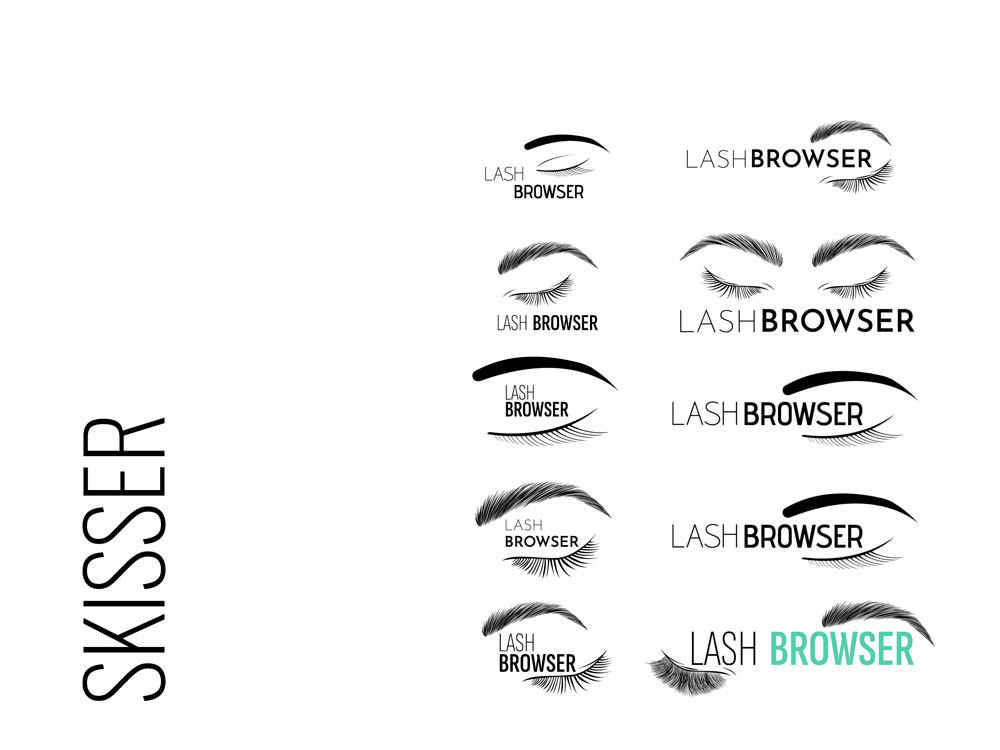
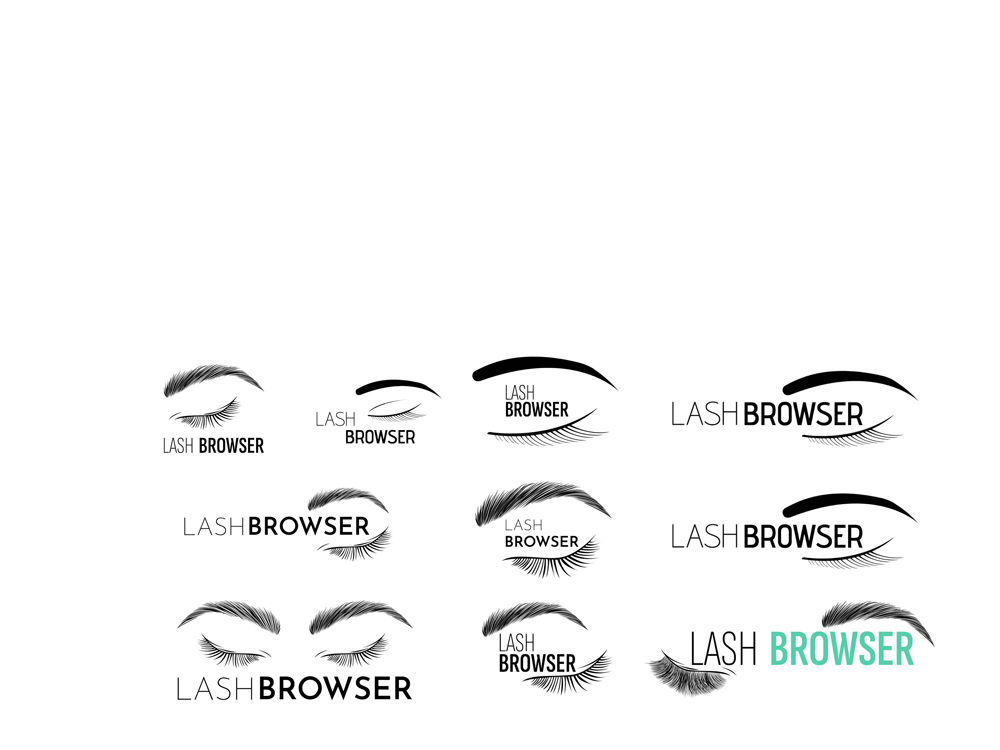
fixed a few small things. and worked on home, photography responsive.

diff --git a/src/Routes/GraphicalDesignProject/index.jsx b/src/Routes/GraphicalDesignProject/index.jsx
@@ -19,21 +19,6 @@ export function GraphicalDesignProject() {
         showBullets={true}
       />
       <p className={classes.ingress}>{project.ingress}</p>
-      <div className={classes.designElements}>
-        <Image
-          className={classes.designElement}
-          fit="contain"
-          src={project.designElements.fonts}
-          alt="Fonts"
-        />
-
-        <Image
-          className={classes.designElement}
-          fit="contain"
-          src={project.designElements.logo}
-          alt="Logo"
-        />
-      </div>
       <div className={classes.designInfoHeading}>Fargepalett</div>
       <div className={classes.colorPalette}>
         {project.designElements.colorPalette.map((color) => (
@@ -49,6 +34,52 @@ export function GraphicalDesignProject() {
             </ul>
           </div>
         ))}
+      </div>
+      <p className={classes.body}>{project.body}</p>
+      <div className={classes.infoBoxesGridTop}>
+        <div className={classes.designElements}>
+          <div className={classes.designInfoHeading}>Typografi</div>
+          <Image
+            className={classes.designElement}
+            fit="contain"
+            src={project.designElements.fonts}
+            alt="Fonts"
+          />
+        </div>
+        <div className={classes.designElements}>
+          <div className={classes.designInfoHeading}>Logo</div>
+          <Image
+            className={classes.designElement}
+            fit="contain"
+            src={project.designElements.logo}
+            alt="Logo"
+          />
+        </div>
+      </div>
+      <div className={classes.infoBoxesGridBottom}>
+        <div className={classes.graphicalElements}>
+          <div className={classes.designInfoHeading}>Skisser</div>
+
+          <Image
+            className={classes.designElement}
+            fit="contain"
+            src={project.designElements.sketches}
+            alt="Skisser"
+          />
+          {project.graphicalElements?.map((graphicalElement) => (
+            <div className={classes.graphicalElements}>
+              <div className={classes.designInfoHeading}>
+                {graphicalElement.title}
+              </div>
+              <Image
+                className={classes.designElement}
+                src={graphicalElement.url}
+                alt={graphicalElement.title}
+                fit="contain"
+              ></Image>
+            </div>
+          ))}
+        </div>
       </div>
     </PageSection>
   );

diff --git a/src/Routes/Home/index.jsx b/src/Routes/Home/index.jsx
@@ -48,7 +48,10 @@ export function Home() {
           </div>
         </div>
       </PageSection>
-      <PageSection innerClassName="skaugmedia">
+      <PageSection
+        outerClassName="skaugmedia-outer"
+        innerClassName="skaugmedia"
+      >
         <div className="flex-container">
           <div className="flex-child image-container">
             <img
@@ -61,10 +64,10 @@ export function Home() {
             <div className="skaugmedia-overskrift">Skaug Media</div>
             <div className="nina-text">
               Jeg heter Nina Merethe Skaug, er mamma, fotograf og grafisk
-              designer. Jeg elsker å være kreativ, og brenner for å<br />
-              skape flotte bilder og design, både til privat og bedrifter. Jeg
-              holder til på Jessheim i Ullensaker kommune, men <br />
-              fotograferer over hele Oslo, Romerike og omegn.
+              designer. Jeg elsker å være kreativ, og brenner for å skape flotte
+              bilder og design, både til privat og bedrifter. Jeg holder til på
+              Jessheim i Ullensaker kommune, men fotograferer over hele Oslo,
+              Romerike og omegn.
             </div>
             <ButtonLink to={AboutRoute} className="lesmer-button">
               Les mer
@@ -73,12 +76,13 @@ export function Home() {
         </div>
       </PageSection>
       <PageSection outerClassName="works-outer" innerClassName="works">
+        <div className="works-home-title">Mine siste arbeider</div>
         <div className="flex-container works-forside">
           {recentWorks.map((recentWork) => (
             <NavLink
               key={recentWork.url}
               to={recentWork.url}
-              className={classes.plainLink}
+              className={`${classes.plainLink} flex-child`}
             >
               <div className="flex-child latest">
                 <Image

diff --git a/src/Routes/Home/Home.css b/src/Routes/Home/Home.css
@@ -136,3 +136,88 @@
   grid-template-columns: auto auto auto auto;
   grid-template-rows: auto auto;
 }
+
+.works-home-title {
+  color: var(--blue);
+  text-transform: uppercase;
+  font-weight: 700;
+  text-align: left;
+  font-size: 1.4em;
+  padding-bottom: 5px;
+}
+@media only screen and (max-width: 1000px) {
+  .intro-outer {
+    max-width: var(--content-width);
+    width: 100%;
+  }
+
+  .foto-header {
+    border-radius: 200%;
+  }
+
+  .skaugmedia-outer {
+    width: 100%;
+  }
+
+  .works-outer {
+    max-width: var(--content-width);
+    width: 100%;
+  }
+  .works-forside {
+    max-width: var(--content-width);
+    width: 100%;
+    display: flex;
+    flex-flow: row wrap;
+  }
+
+  .works-img {
+    width: 100%;
+  }
+}
+
+@media only screen and (max-width: 600px) {
+  .flex-container {
+    display: flex;
+    flex-flow: column;
+  }
+
+  .intro-outer {
+    justify-content: center;
+    grid-template-columns: 100%;
+    grid-auto-rows: auto;
+    grid-gap: 0;
+    max-width: var(--content-width);
+    width: 100%;
+  }
+
+  .skaugmedia-outer {
+    width: 100%;
+  }
+
+  .skaugmedia {
+    justify-content: center;
+    max-width: var(--content-width);
+    display: flex;
+    flex-flow: column;
+  }
+
+  .text-container {
+    max-width: var(--content-width);
+    display: flex;
+    flex-flow: column;
+  }
+  .works-outer {
+    width: 100%;
+  }
+  .works-forside {
+    justify-content: center;
+    max-width: var(--content-width);
+    display: flex;
+    flex-flow: column;
+    margin-bottom: 50px;
+  }
+
+  .works-img {
+    width: 100%;
+  }
+}

diff --git a/src/Routes/GraphicalDesignProject/GraphicalDesignProject.module.css b/src/Routes/GraphicalDesignProject/GraphicalDesignProject.module.css
@@ -15,6 +15,8 @@
 .designElements {
   display: flex;
   justify-content: space-between;
+  width: 48%;
+  flex-flow: column;
 }
 
 .designElement {
@@ -22,7 +24,14 @@
   border-width: 1px;
   border-color: rgba(0, 0, 0, 0.18);
   height: 314px;
+  width: 100%;
+}
+
+.graphicalElements {
+  display: flex;
+  justify-content: space-between;
   width: 48%;
+  flex-flow: row wrap;
 }
 
 .designInfoHeading {
@@ -39,6 +48,7 @@
   grid-template-columns: repeat(auto-fill, minmax(160px, 1fr));
   gap: 10px;
   width: 100%;
+  margin-bottom: 20px;
 }
 
 .colorCard {
@@ -60,4 +70,20 @@
   margin: 0;
   list-style: none;
   padding: 20px;
+}
+
+.body {
+  font-weight: 300;
+}
+
+.infoBoxesGridTop {
+  display: flex;
+  justify-content: space-between;
+  width: 100%;
+}
+
+.infoBoxesGridBottom {
+  display: flex;
+  justify-content: space-between;
+  width: 100%;
 }

diff --git a/src/Routes/Photography/Photography.css b/src/Routes/Photography/Photography.css
@@ -37,7 +37,7 @@
 }
 
 @media only screen and (max-width: 1100px) {
-  .design-project {
+  .photography-category {
     justify-content: row;
     grid-template-columns: 1fr 1fr;
     grid-auto-rows: auto;
@@ -47,11 +47,26 @@
 }
 
 @media only screen and (max-width: 600px) {
-  .design-project {
+  .photography {
+    max-width: var(--content-width);
+    max-width: 80%;
+    display: flex;
+  }
+
+  .photography-category {
     justify-content: center;
     grid-template-columns: 100%;
     grid-auto-rows: auto;
     grid-gap: 0;
     max-width: var(--content-width);
+  }
+
+  .photography-category-title {
+    margin-bottom: 0;
+    margin-top: 3px;
+  }
+
+  .photography-category-count {
+    margin-bottom: 20px;
   }
 }

diff --git a/src/Routes/Prices/index.jsx b/src/Routes/Prices/index.jsx
@@ -9,7 +9,7 @@ import { Image } from "../../Components/Image";
 import portrettimg from "../../Images/silje_konfirmant_3.jpg";
 import newbornimg from "../../Images/newborn_liam_4.jpg";
 import pregnantimg from "../../Images/gravid_4.jpg";
-import coupleimg from "../../Images/couple_prices.jpg";
+import coupleimg from "../../Images/forlovelse_3.jpg";
 import weddingimg from "../../Images/produkt_9.jpg";
 import foodimg from "../../Images/mat_12.jpg";
 import designimg from "../../Images/design_prices.jpg";

diff --git a/src/Data/GraphicalDesign/PentOgBrukt/index.js b/src/Data/GraphicalDesign/PentOgBrukt/index.js
@@ -11,6 +11,7 @@ import logo from "./Images/logo.jpg";
 import logomockup from "./Images/logo_mockup.jpg";
 import webpage from "./Images/webside.jpg";
 import webpage1 from "./Images/webside_1.jpg";
+import sketch from "./Images/skisser.jpg";
 
 export default {
   id: "pent-og-brukt-as",
@@ -133,5 +134,6 @@ export default {
       },
     ],
     logo: logo,
+    sketches: sketch,
   },
 };

diff --git a/src/Components/PageSection/PageSection.module.css b/src/Components/PageSection/PageSection.module.css
@@ -10,6 +10,17 @@
   width: 100%;
 }
 
+@media only screen and (max-width: 1000px) {
+  .inner {
+    max-width: var(--content-width);
+    width: 80%;
+  }
+
+  .outer {
+    width: 80%;
+  }
+}
+
 @media only screen and (max-width: 600px) {
   .inner {
     max-width: var(--content-width);

diff --git a/src/Routes/Root/Root.css b/src/Routes/Root/Root.css
@@ -77,6 +77,16 @@ footer {
   margin-bottom: 30px;
 }
 
+@media only screen and (max-width: 1000px) {
+  .footer-link {
+    display: none;
+  }
+
+  .social {
+    padding-top: 0px;
+  }
+}
+
 @media only screen and (max-width: 600px) {
   .footer-link {
     display: none;

diff --git a/src/index.css b/src/index.css
@@ -35,6 +35,11 @@ code {
   font-family: source-code-pro, Menlo, Monaco, Consolas, "Courier New",
     monospace;
 }
+@media only screen and (max-width: 1000px) {
+  :root {
+    --content-width: 900px;
+  }
+}
 
 @media only screen and (max-width: 600px) {
   :root {

diff --git a/src/Routes/GraphicalDesign/GraphicalDesign.css b/src/Routes/GraphicalDesign/GraphicalDesign.css
@@ -37,6 +37,11 @@
 }
 
 @media only screen and (max-width: 600px) {
+  .design {
+    max-width: var(--content-width);
+    max-width: 80%;
+    display: flex;
+  }
   .design-project {
     justify-content: center;
     grid-template-columns: 100%;

diff --git a/src/Routes/Prices/Prices.css b/src/Routes/Prices/Prices.css
@@ -100,6 +100,8 @@
 @media only screen and (max-width: 600px) {
   .prices {
     flex-flow: column;
+    max-width: var(--content-width);
+    width: 100%;
   }
   .section-category {
     grid-template-columns: 100%;
